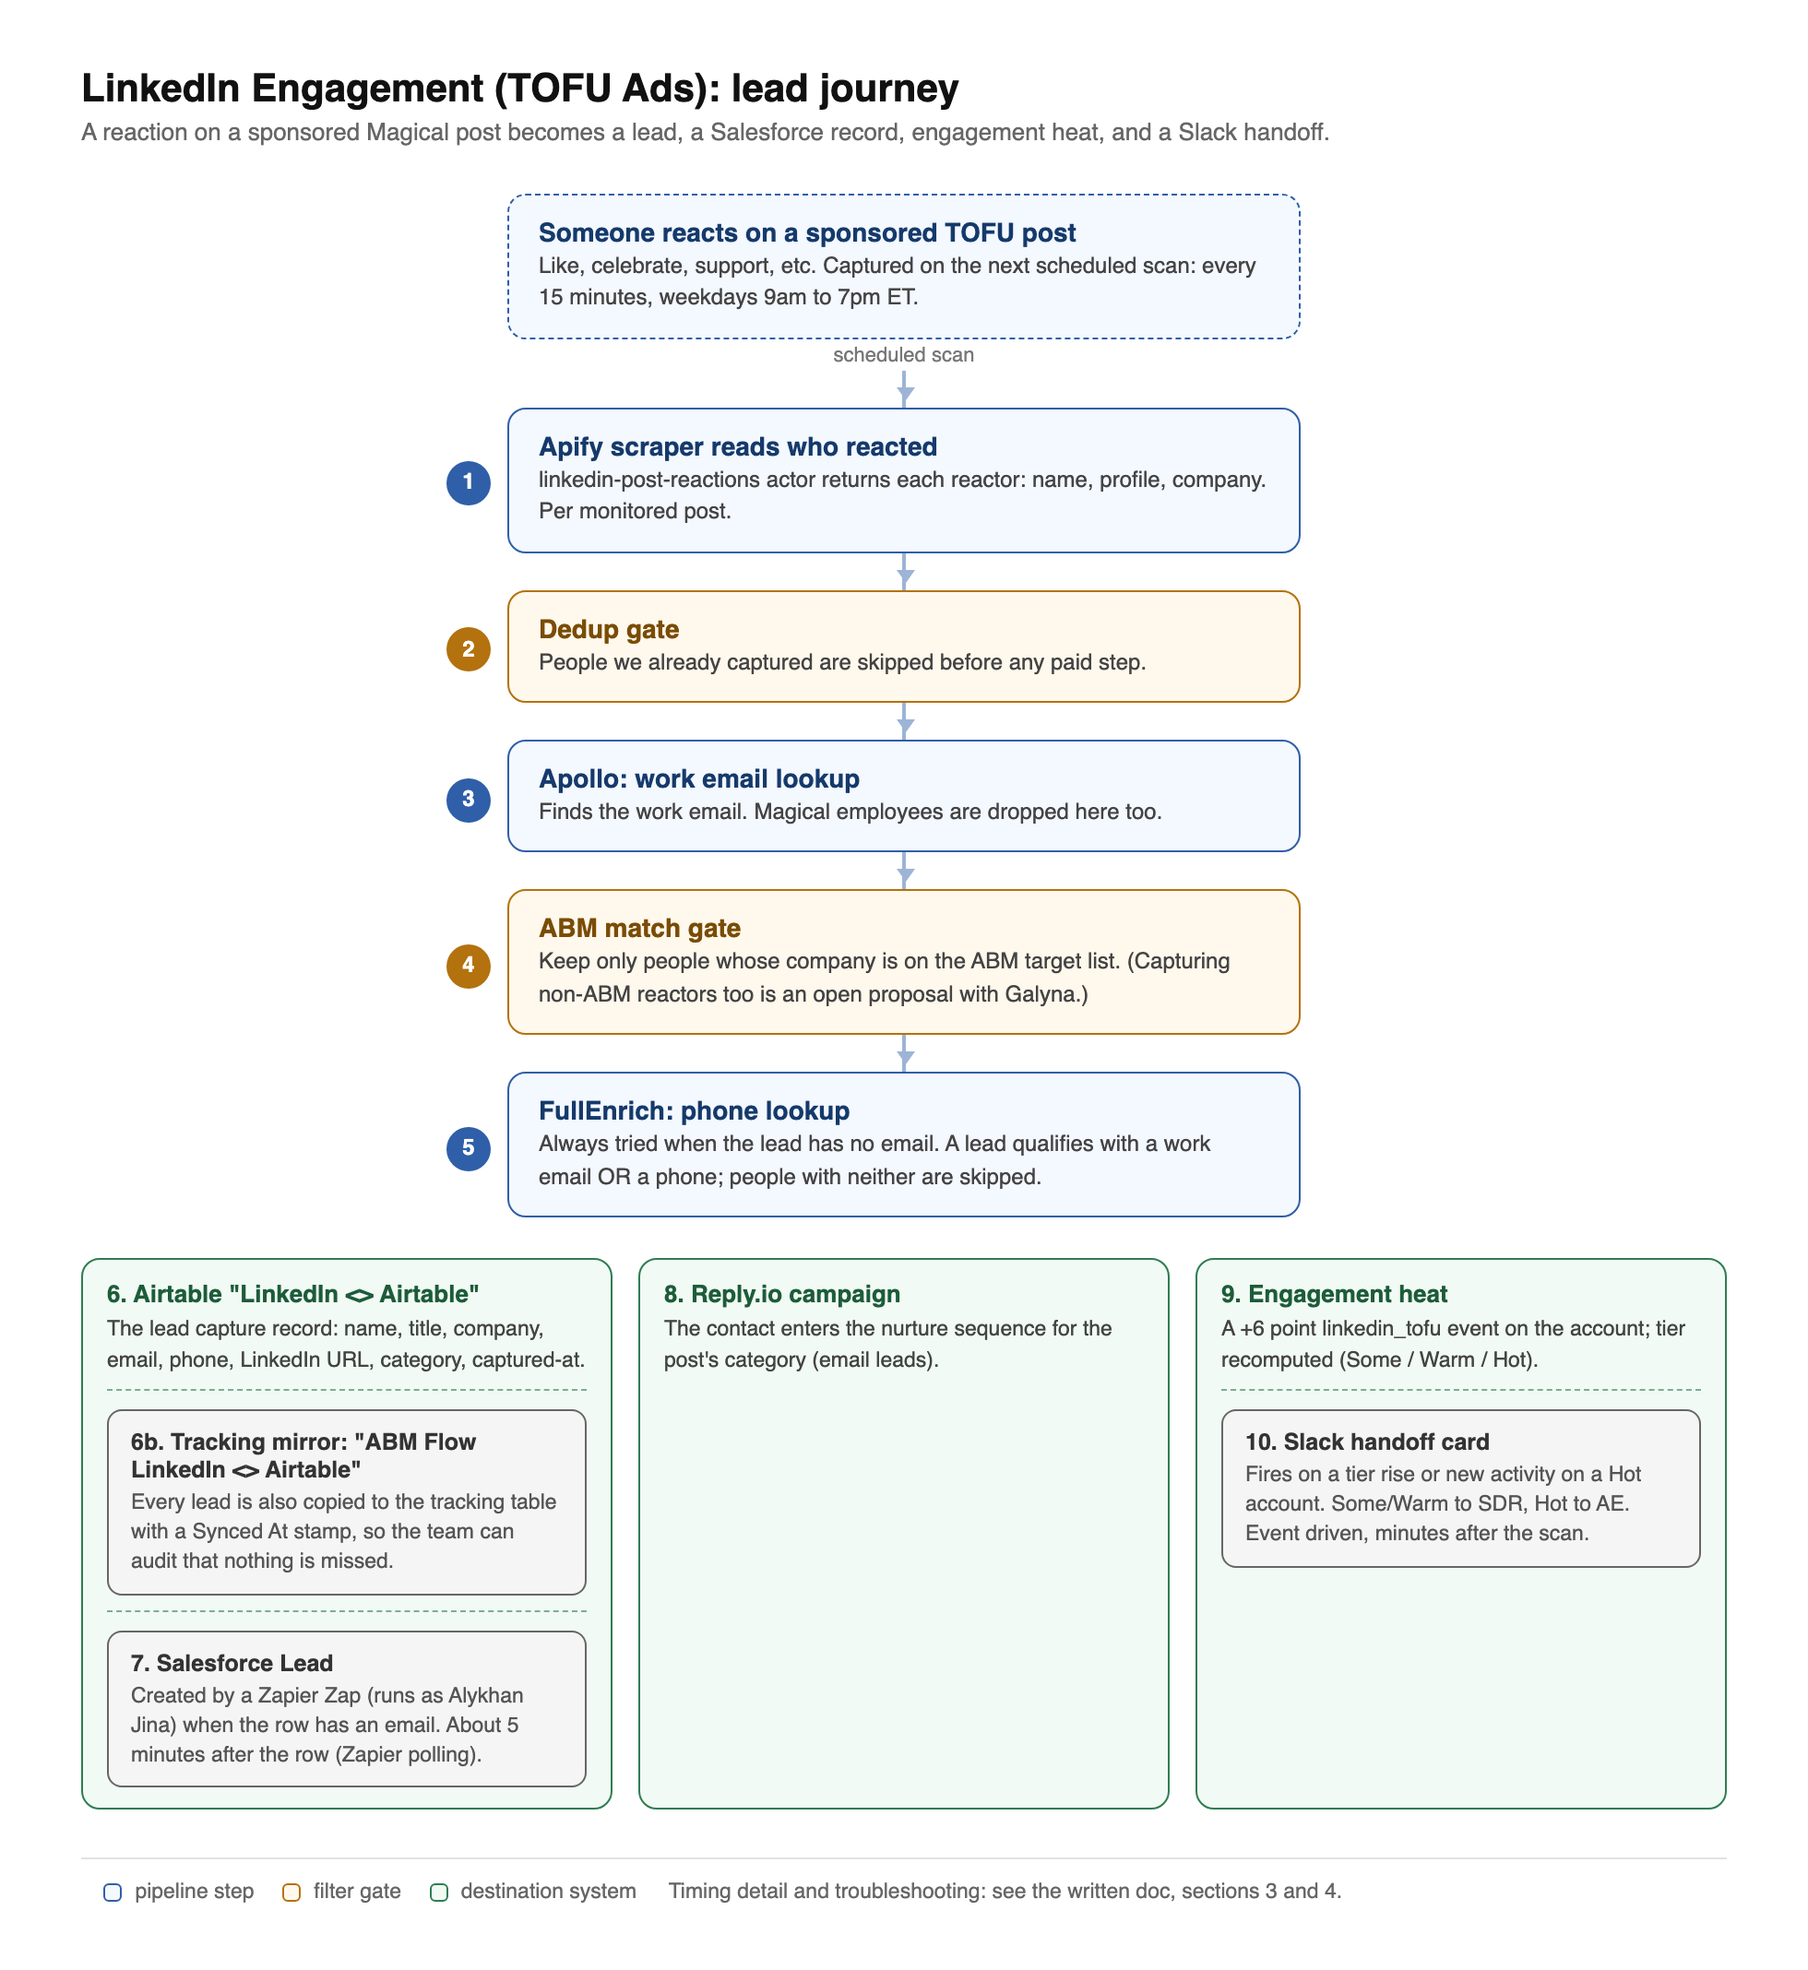
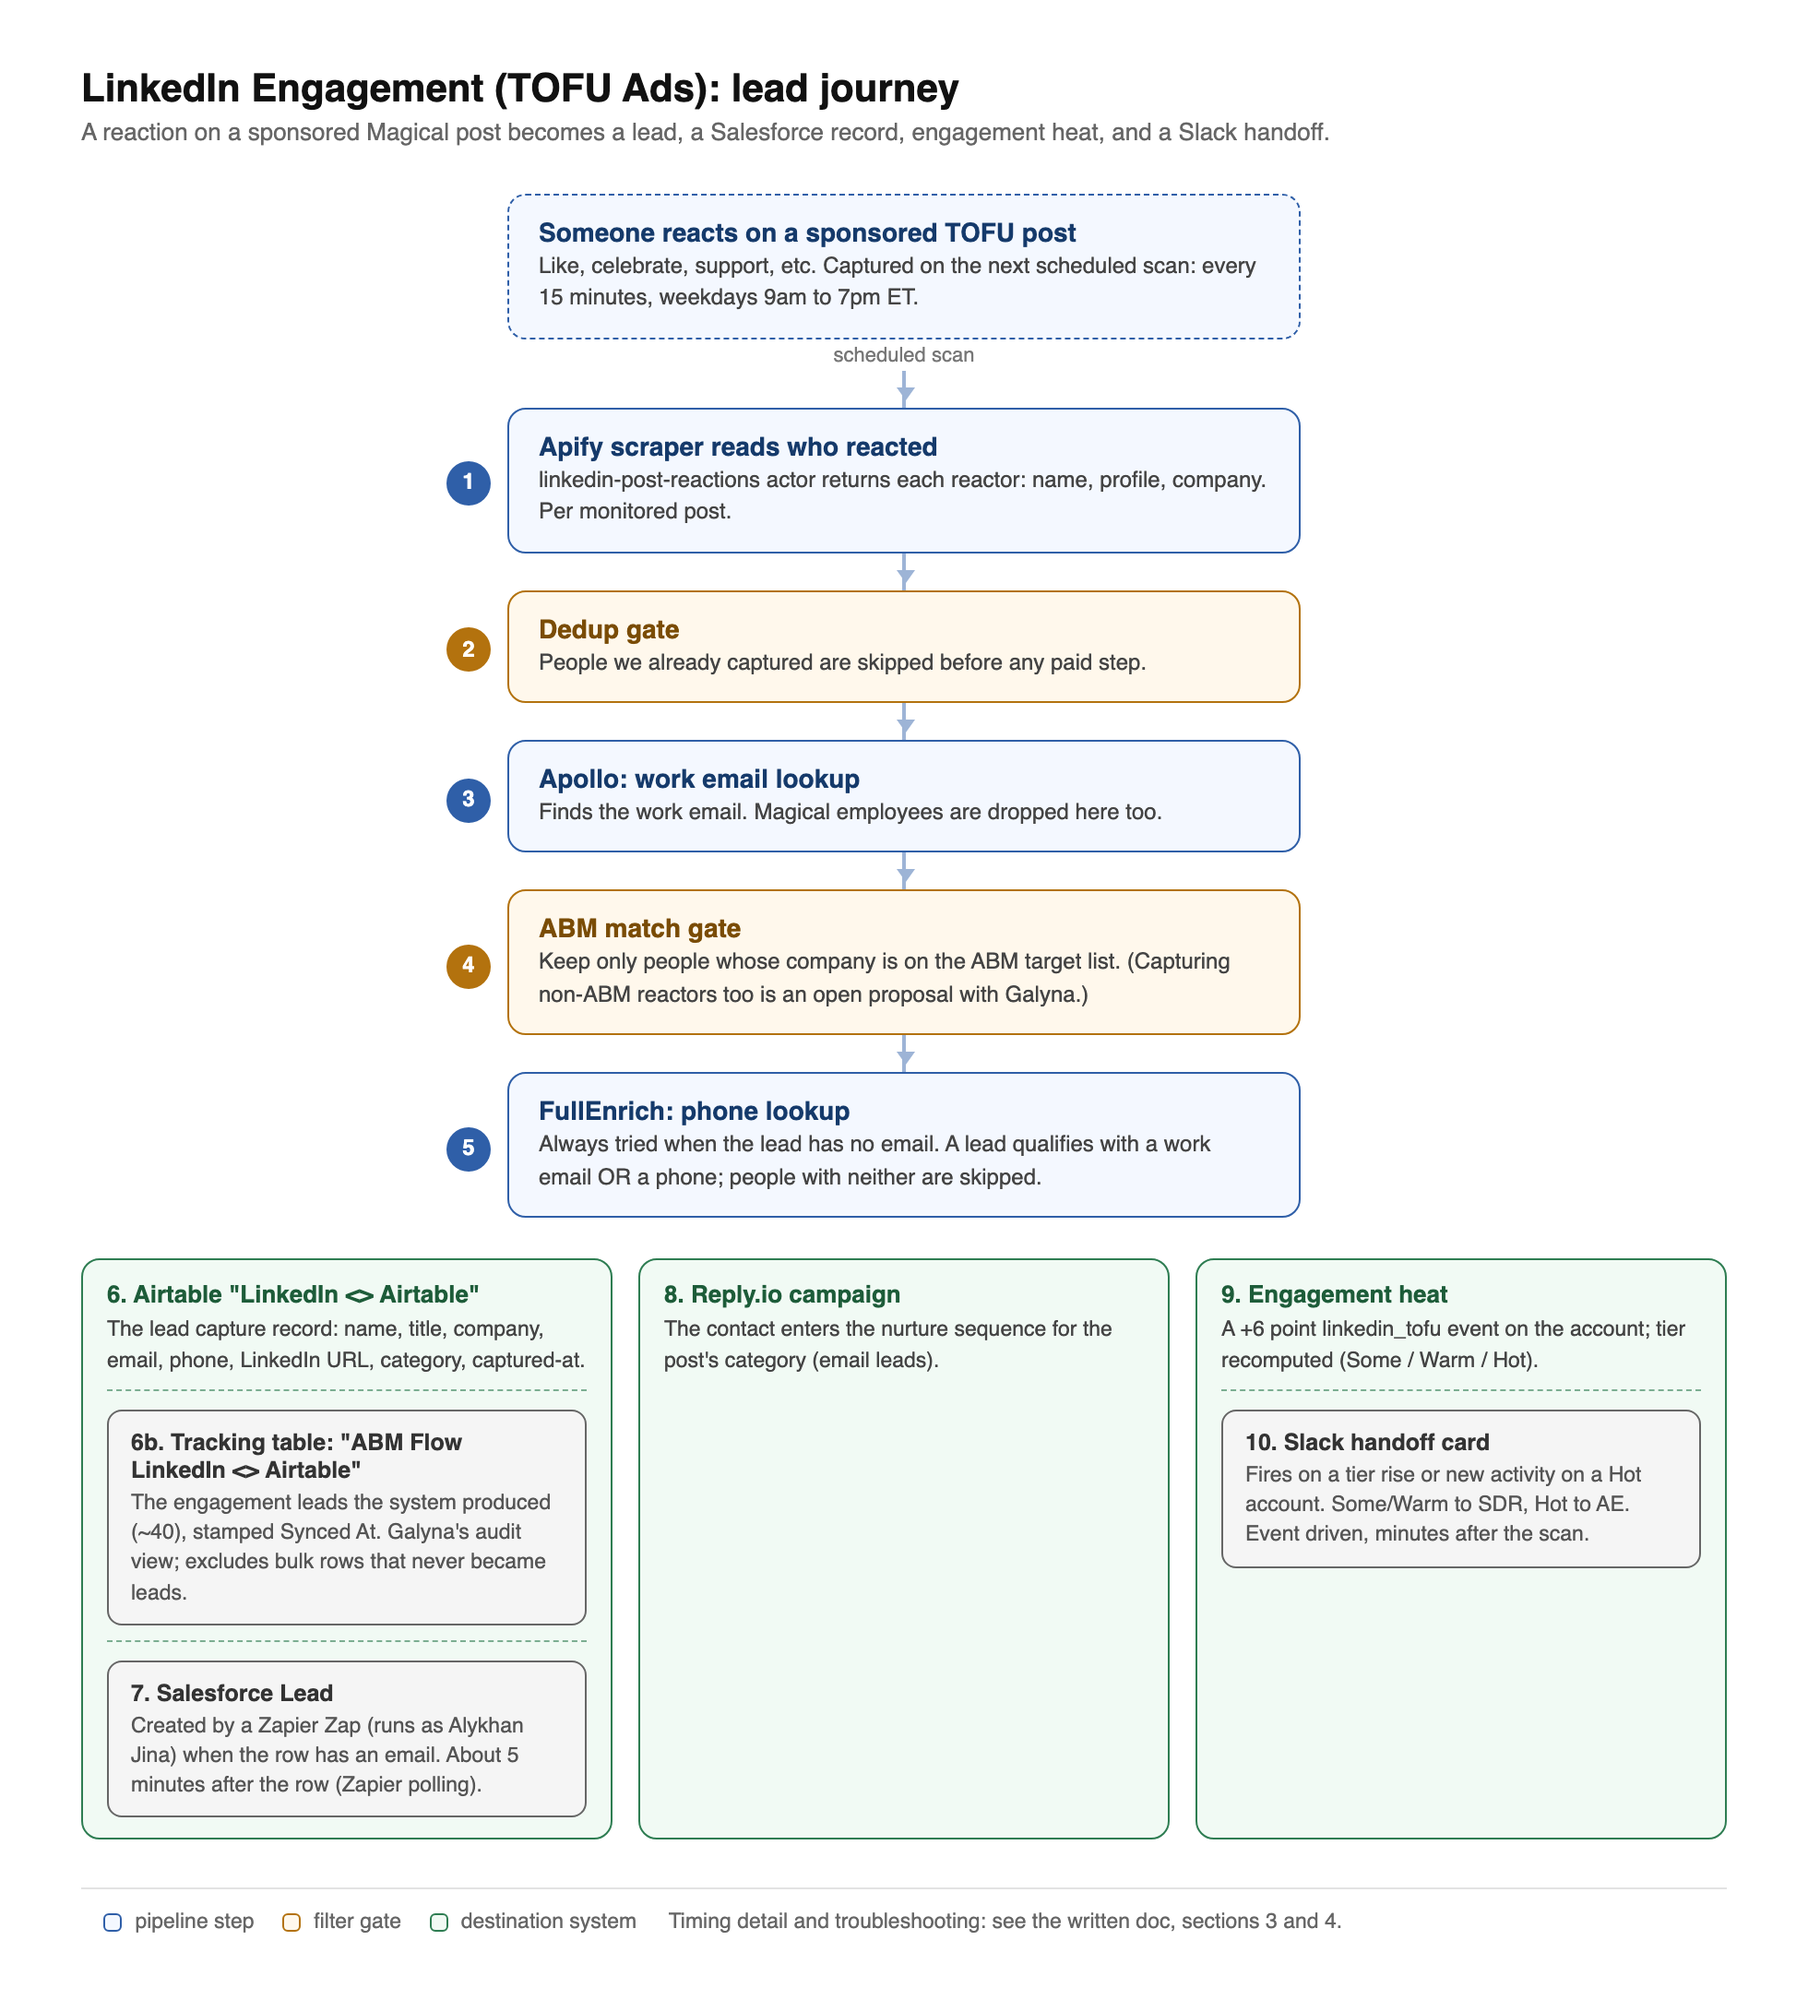
Flow doc + diagram: 6b box reflects leads-only tracking table

diff --git a/docs/ENGAGEMENT_LINKEDIN_FLOW.md b/docs/ENGAGEMENT_LINKEDIN_FLOW.md
@@ -42,9 +42,9 @@ Someone reacts (like, celebrate, etc.) on a Magical sponsored TOFU post
       |
       +--> [6] Airtable "LinkedIn <> Airtable" table   (lead capture record)
       |            |
-      |            +--> [6b] Tracking mirror: "ABM Flow LinkedIn <> Airtable"
-      |            |         table (every lead copied, stamped Synced At — the
-      |            |          audit table proving no lead is missed)
+      |            +--> [6b] Tracking table: "ABM Flow LinkedIn <> Airtable"
+      |            |         (engagement LEADS only, ~40, stamped Synced At —
+      |            |          Galyna's audit view of what the system produced)
       |            v  Zapier (Alykhan's account; polls every ~5 min, email-gated)
       |       [7] Salesforce Lead   (created by the Zapier Zap)
       |
